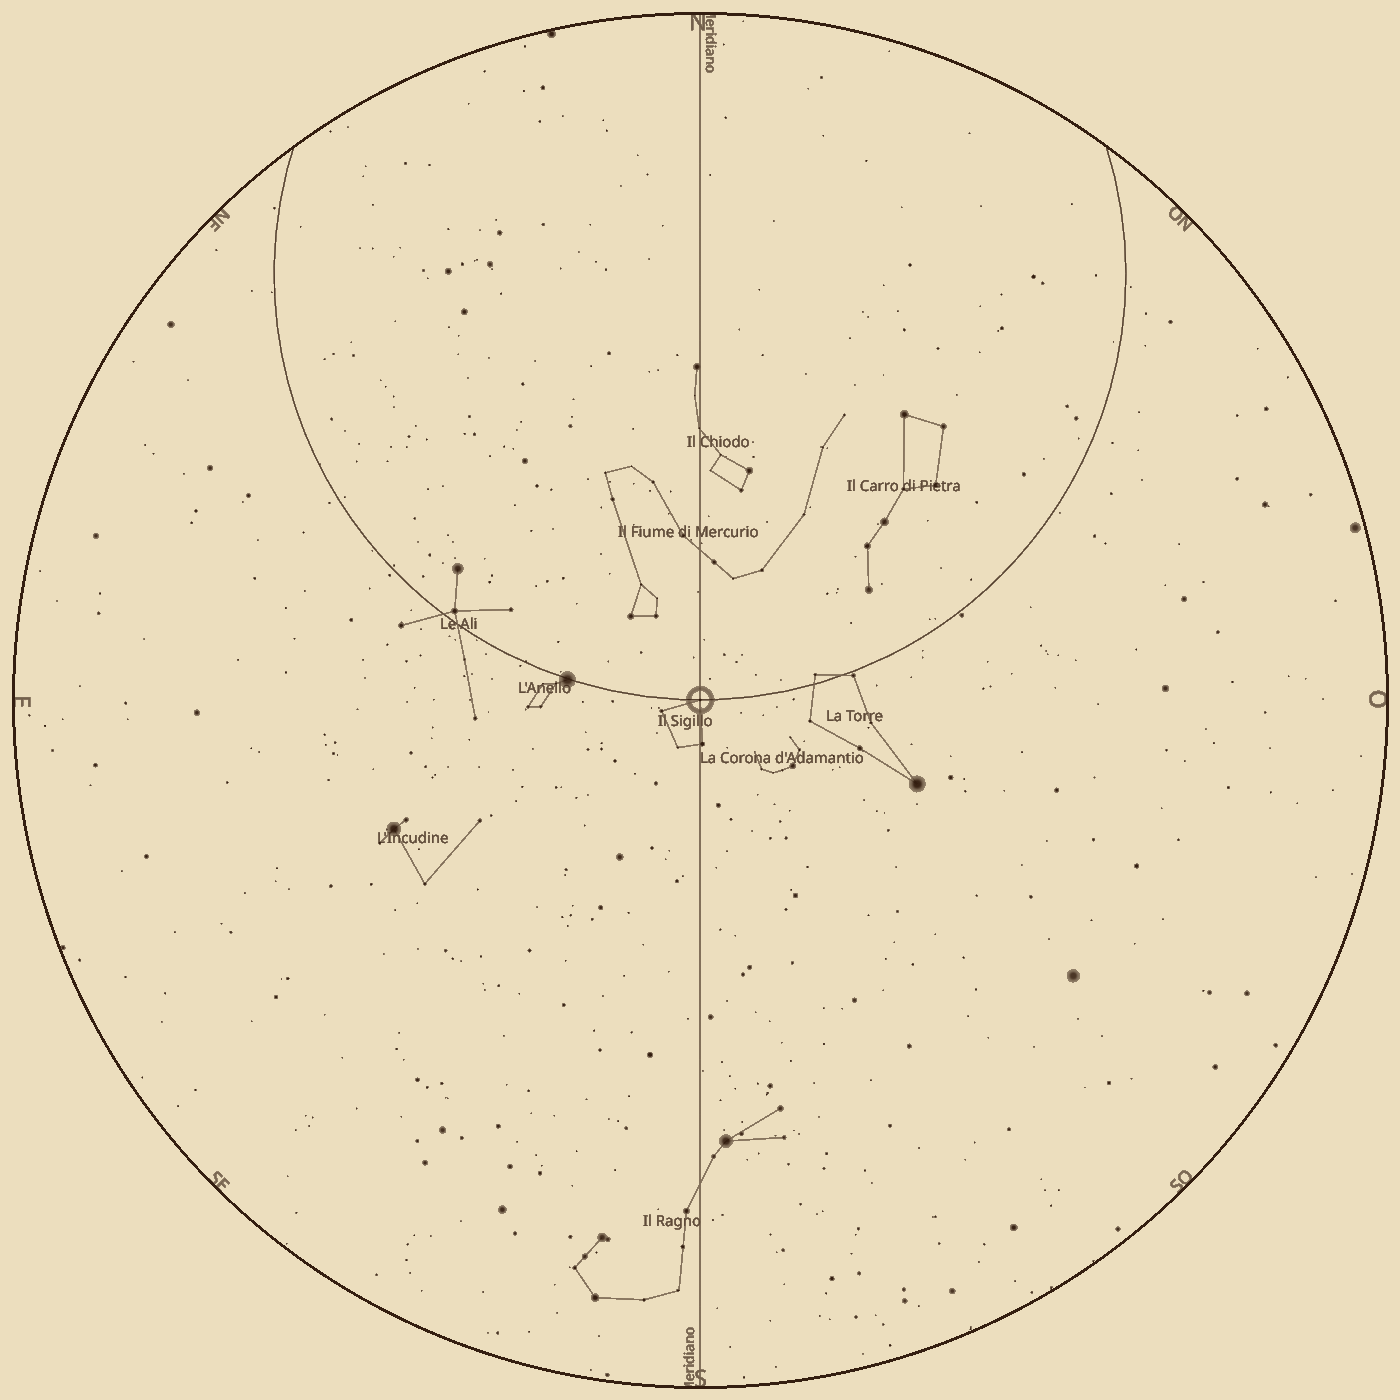
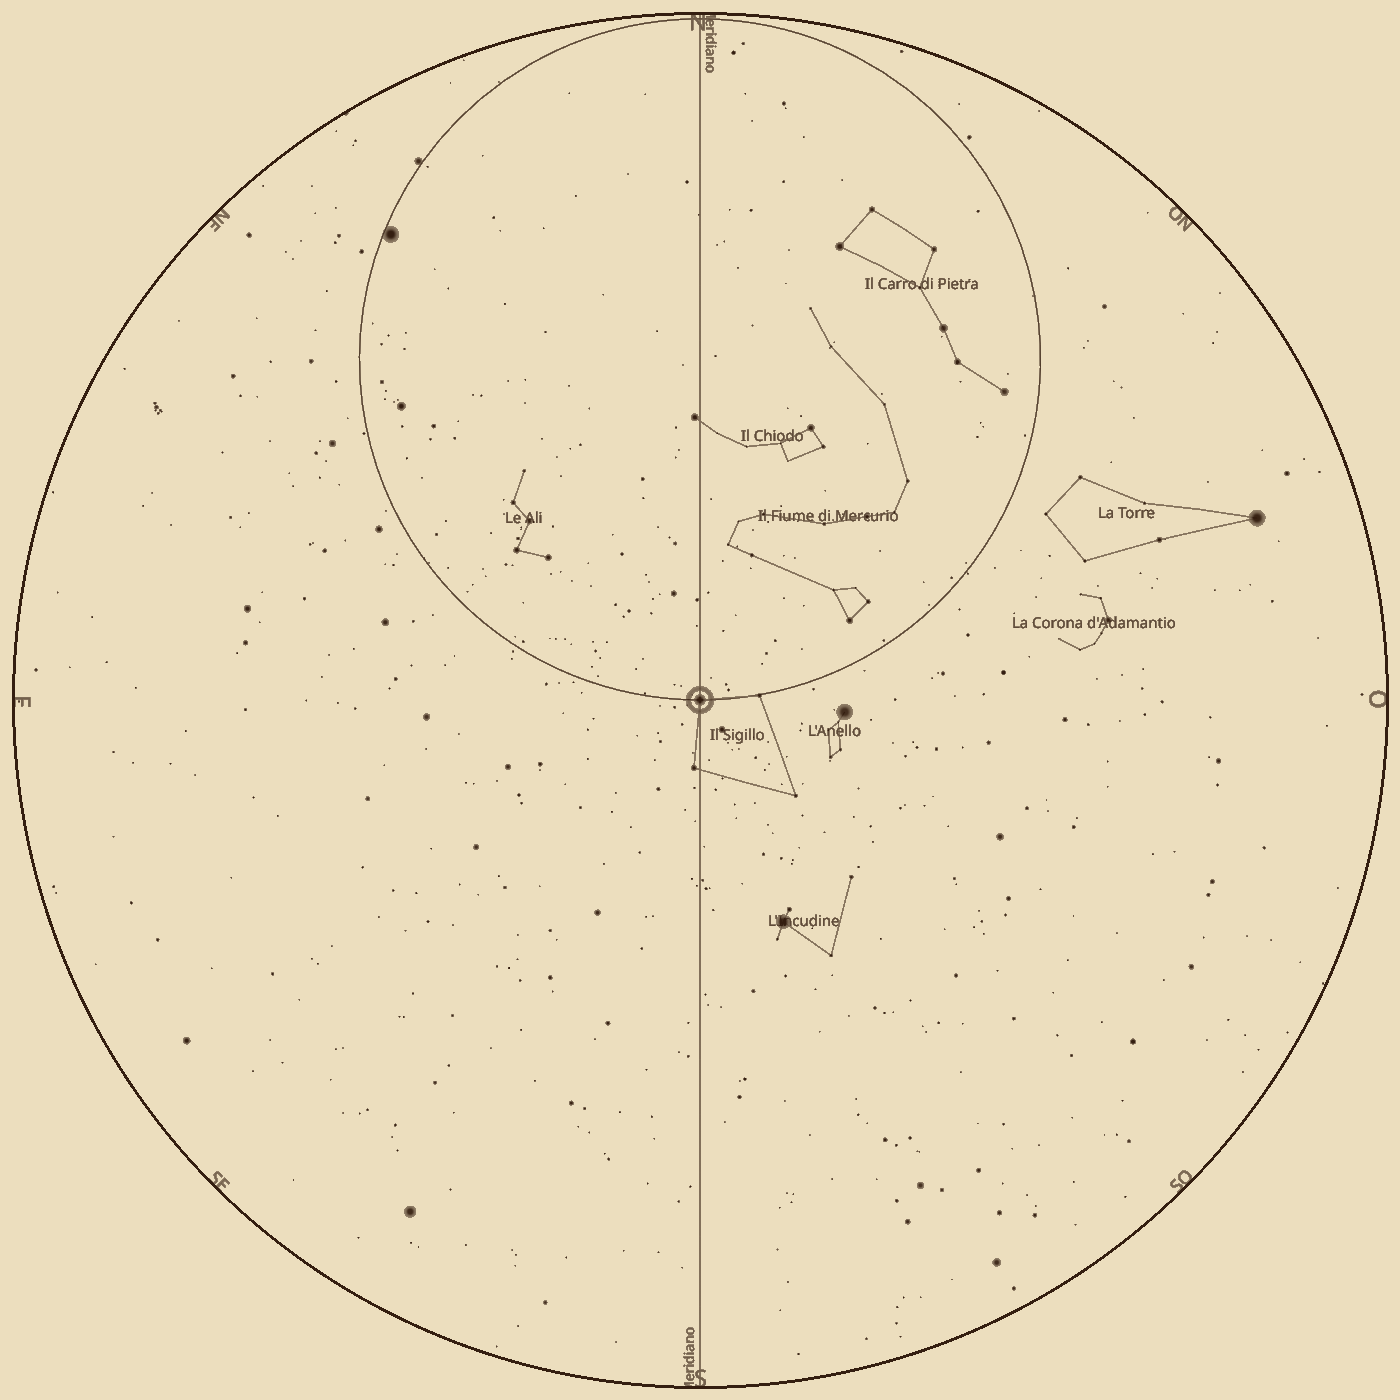
Carta del cielo di Zalkatar: dal 30 Mirtul al 30 Flamerule
Il DM ha scelto sulla card del 2026-11-18 che la Torre cammina il 30
Flamerule, come vuole l'ancora del calendario del 2026-07-12. Carta rifatta
(2000-07-31 00:05:45 UT, stella-chiave HIP 102098, latitudine 45,281),
Sigillo ridisegnato, handout 7 e righe A4 del dossier a Flamerule,
PROVENIENZA, RICERCA §3.1, CHANGELOG e MS-0166.

Claude-Session: https://claude.ai/code/session_01KdRg4GgYVS5JNtwe8bvZrw

diff --git a/plans/CHANGELOG.md b/plans/CHANGELOG.md
@@ -962,3 +962,4 @@
 | 2026-11-17 | SISTEMI-DI-GIOCO-PLUGIN | ADR-0126, il generatore: Incantesimi focalizzati con la scuola. Il nome italiano di Spell Focus era «Incantesimi focalizzati (bene, caos, legge o male)», preso dal talento degli allineamenti: ora è «Incantesimi focalizzati», e il generatore scrive la scuola con più incantesimi sul blocco (dall'SRD 3.5; per l'APG dal PRD). Un blocco senza incantesimi prende il talento seguente del ruolo, scelta del DM sulla card del 17/11 | `scripts/genera_creatura.py` · `scripts/dmcore/talenti.py` · `scripts/lessico_it_35.tsv` · `sistemi/dnd35/dati/liste_incantesimi.toml` `[scuole]` · `sistemi/pf1e/dati/incantesimi.toml` `[scuole]` · `plans/esperimenti/incantesimi-35-2026-11-12/estrai_liste.py` · `scripts/tests/test_talenti.py` | In PR: sull'impronta (720 blocchi) nome sbagliato 234 → 0, senza scuola 312 → 0, su blocchi senza incantesimi 210 → 0 |
 | 2026-11-17 | RECUPERO-DECISIONI-E-REVISIONI-INCOMPIUTE | Kit unico delle prove sulla RTX 4050, richiesta del DM del 17/11 (ADR-0136): `kit.sh` installa, lancia in fila, verifica e impacchetta le prove di `prove.json` su Bazzite, Debian 13, CachyOS («chaucy os» letto come CachyOS) e Windows via WSL2 con Ubuntu 24.04 (scelta del DM sulla card del 17/11). Server Ollama acceso e spento dal kit col contesto di ogni prova; `verifica.py` scrive `verifica.md` (ok, ko, da completare, non fatta); `trascrizione-gpu.sh` prova whisper.cpp sulla GPU con FLEURS, senza registrare nessuno, coi parametri del thread della trascrizione. `scripts/llm-locale/` e `scripts/comfyui-local/` entrano nel box con `nel_box`; prenotato ADR-0135 per la #424 | `scripts/prove-4050/` (kit.sh, installa.sh, installa-windows.ps1, ospite.sh, prove.json, verifica.py, trascrizione-gpu.sh) · `docs/how-to/GUIDA-PROVE-PORTATILE-4050.md` · `plans/adr/ADR-0136-…` · `plans/adr-prenotati.json` | 🟡 prove lanciabili con un comando: da 0 a 7 su 7; sistemi con un percorso di installazione: da 1 (Bazzite) a 4. Mai girato su una GPU né su Debian, CachyOS o Windows veri: provati nel container il riconoscimento dei sistemi, i comandi di `installa.sh --mostra` per ognuno, `kit.sh piano` ed `esegui controlla`, `verifica.py` su risultati finti, e `trascrizione-gpu.sh` intero sulla CPU (FLEURS 40 righe, 646 s di audio, q8_0 con `-mc 0` senza VAD: 2,3% di parole sbagliate in 249 s, 2,6 volte il tempo reale; col VAD era 8,6%, per questo è tolto, come chiesto dal thread della trascrizione). `installa-windows.ps1` non controllato: nessun PowerShell nel container. Test `test_prove_4050` 13 → 23; suite 3.231 verdi |
 | 2026-11-18 | SISTEMI-DI-GIOCO-PLUGIN | ADR-0126, il generatore: la nota «niente Incantesimi focalizzati» nel conto esce solo se l'esclusione ha cambiato la scelta dei talenti. Dopo la #468 usciva su ogni blocco senza incantesimi, e `impronte.py --confronta` dava due rossi nuovi (genera_creatura_gs7 e gs14) per quella sola riga; il blocco era uguale. Sull'impronta delle creature: 484 note tolte, 156 restano, nessun'altra differenza | `scripts/genera_creatura.py` (`applica_talenti`, controprova senza esclusi) · `scripts/tests/fixtures/impronta-creature.json` · `scripts/tests/test_talenti.py` | ✅ |
+| 2026-11-18 | RICERCA-TOOL-LGM-2026 | §3.1, ricontrollo della carta del cielo chiesto dal DM. La carta mostrava la mezzanotte del 30 Mirtul, ma l'ancora del calendario del 2026-07-12 dice Giorno di Marcia 1 = 1 Flamerule: il DM ha scelto sulla card del 2026-11-18 «30 Flamerule: rifaccio la carta». Carta rifatta per la mezzanotte del 30 Flamerule (2000-07-31 00:05:45 UT, stella-chiave HIP 102098, latitudine 45,281): Sigillo ridisegnato intorno alla nuova stella, Ali spostate a nord-est, il Ragno a quell'ora è tramontato (nove figure sulla carta). Handout 7 e le tre righe del dossier delle piste che parlano della carta passano a Flamerule; nell'handout 7 la voce «Il cerchio grande» torna dentro la nota DM e i giorni di marcia a 6 m diventano «fra quattro e cinque». Gli altri «Mirtul» di ARC-09 li prende il thread della coerenza della storia. | `09_…/Immagini-Handout/carta-del-cielo/` · `09_Continuazione Arco Narrativo dopo Battaglia di Hammerfist/Arco-Post-Hammerfist-HANDOUTS.md` · `09_…/Arco-Post-Hammerfist-DOSSIER-DELLE-PISTE.md` (A4) · `plans/RICERCA-TOOL-LGM-2026.md` | Stella-chiave a 0,3 pixel dal centro del segno; quattro lanci di fila identici pixel per pixel, variante da stampa identica byte per byte. A mezzanotte del 30 Flamerule la stella della carta di prima era a 58° oltre il meridiano. |

diff --git a/09_Continuazione Arco Narrativo dopo Battaglia di Hammerfist/Arco-Post-Hammerfist-HANDOUTS.md b/09_Continuazione Arco Narrativo dopo Battaglia di Hammerfist/Arco-Post-Hammerfist-HANDOUTS.md
@@ -202,17 +202,17 @@
 
 > **Quando darlo** (deciso dal DM il 2026-11-14, sulla card: «tutte e due»). La
 > carta sta addosso al mago della **squadra di piromanti drow** (tabella del
-> Cannath Vale, 56-70, `INCONTRI-VIAGGIO-CANNATH-VALE`), prima di fine Mirtul.
+> Cannath Vale, 56-70, `INCONTRI-VIAGGIO-CANNATH-VALE`), prima di fine Flamerule.
 > La squadra è una scena fissa fra il Day 22 e il 26 sulla strada che il gruppo
 > fa davvero: Witchwood se va alla Foresta Sacra, Vale centrale se Artemis va
 > solo verso nord [DM 2026-11-14, dossier delle piste §13 S1].
 > Se i PG non lo incontrano o non lo perquisiscono, **Sethrax** ne dà una copia
 > quando si smaschera al Torneo, come indizio gratuito sull'arco della Torre
-> (`P2B-Torneo-DAUTH-SUBQUEST-Artemis` §4.1): arriva dopo il 30 Mirtul, quindi
+> (`P2B-Torneo-DAUTH-SUBQUEST-Artemis` §4.1): arriva dopo il 30 Flamerule, quindi
 > la carta dice dove la Torre **è già andata**.
 > Un foglio rotondo di pelle sottile, inchiostro bruno, nessuna firma.
 
-![Carta del cielo di Zalkatar: cielo di mezzanotte visto dall'alto, con il meridiano nord-sud, dieci costellazioni con i loro nomi, una stella cerchiata al centro esatto, nel Sigillo, e un cerchio più grande che passa per quella stella e per la stella più luminosa dell'Anello](Immagini-Handout/carta-del-cielo/carta-del-cielo-zalkatar-stampa.png)
+![Carta del cielo di Zalkatar: cielo di mezzanotte visto dall'alto, con il meridiano nord-sud, nove costellazioni con i loro nomi, una stella cerchiata al centro esatto, in cima al Sigillo, e un cerchio più grande che passa per quella stella e per l'angolo ovest del Sigillo](Immagini-Handout/carta-del-cielo/carta-del-cielo-zalkatar-stampa.png)
 
 > *Le stelle sono puntini d'inchiostro, i nomi in Comune in una grafia piccola e
 > diritta. Una riga taglia il cerchio da nord a sud. Al centro, dove la riga
@@ -226,9 +226,11 @@
 >   cerchiata è la più alta del **Sigillo** ed è esattamente lì.
 > - **Lettura 1, la notte** (nessun tiro: basta guardare il cielo vero a
 >   mezzanotte). Il cielo gira di un grado per notte: ogni notte il Sigillo
->   arriva al meridiano quattro minuti prima. Il 22 Mirtul a mezzanotte è ancora
+>   arriva al meridiano quattro minuti prima. Il 22 Flamerule a mezzanotte è ancora
 >   a est della riga, di circa nove gradi; sulla riga ci arriva a mezzanotte il
->   **30 Mirtul**. È la notte in cui «la torre cammina». Una prova di
+>   **30 Flamerule**, il Giorno di Marcia 30 (mese deciso dal DM il 2026-11-18,
+>   sull'ancora del calendario del 2026-07-12). È la notte in cui «la torre
+>   cammina». Una prova di
 >   Conoscenze (geografia) o Sopravvivenza CD 15 conta le notti a colpo d'occhio.
 > - **Lettura 2, il luogo**. Una stella passa esattamente sopra la testa solo
 >   alla latitudine uguale alla sua altezza in cielo: la carta è disegnata **dal
@@ -241,9 +243,9 @@
 >   La carta non dipende da questa scelta: se cambia, cambia solo questa riga.
 > - **Il cerchio grande** è il parallelo del Sigillo: le stelle che ci stanno sopra
 >   passano tutte sopra la testa di chi è nel luogo del passo, una dopo l'altra.
->   Ci sta sopra anche la stella più luminosa dell'**Anello**, che si vede bene
->   anche in una notte velata: per un PG che misura, è la conferma che il cerchio
->   non è un ornamento (Conoscenze (geografia) CD 15 lo capisce a colpo d'occhio).
+>   Ci sta sopra anche la stella all'angolo ovest del **Sigillo**, la seconda che
+>   passa allo zenit quella notte: per un PG che misura, è la conferma che il
+>   cerchio non è un ornamento (Conoscenze (geografia) CD 15 lo capisce a colpo d'occhio).
 > - **Nome**: «il Sigillo si chiude sulla Torre». È il calcolo del rito di
 >   spostamento di Zalkatar, la stessa vibrazione che sente l'Anello di Artemis.
 > - **Perché non si falsifica**: il cielo è lo stesso per tutti. Una copia con
@@ -253,7 +255,8 @@
 > **Nota DM: stampa e provenienza**. Due versioni: inchiostro su carta
 > (`carta-del-cielo-zalkatar-stampa.png`, da stampare) e cielo notturno
 > (`carta-del-cielo-zalkatar.png`, da mostrare a schermo). Le costellazioni hanno
-> nomi del repo, non di Faerûn (ADR-0005); come si rifà l'immagine sta in
+> nomi del repo, non di Faerûn (ADR-0005). Sulla carta le figure sono nove: a
+> quell'ora il Ragno è già tramontato. Come si rifà l'immagine sta in
 > `Immagini-Handout/carta-del-cielo/PROVENIENZA.txt`.
 
 ---

diff --git a/MEMORIA.md b/MEMORIA.md
@@ -84,6 +84,7 @@ Fonte: [`plans/CHANGELOG.md`](plans/CHANGELOG.md), una riga per lotto chiuso.
 
 | Data | Piano | Lotto | Esito |
 |---|---|---|---|
+| 2026-11-18 | RICERCA-TOOL-LGM-2026 | §3.1, ricontrollo della carta del cielo chiesto dal DM. La carta mostrava la me… | Stella-chiave a 0,3 pixel dal centro del segno; quattro lanci di fila identici pixel per pixel, variante da stampa identica byte per byte. A mezzanotte del 30… |
 | 2026-11-18 | SISTEMI-DI-GIOCO-PLUGIN | ADR-0126, il generatore: la nota «niente Incantesimi focalizzati» nel conto esc… | ✅ |
 | 2026-11-17 | RECUPERO-DECISIONI-E-REVISIONI-INCOMPIU… | Kit unico delle prove sulla RTX 4050, richiesta del DM del 17/11 (ADR-0136):… | 🟡 prove lanciabili con un comando: da 0 a 7 su 7; sistemi con un percorso di installazione: da 1 (Bazzite) a 4. Mai girato su una GPU né su Debian, CachyOS o W… |
 | 2026-11-17 | SISTEMI-DI-GIOCO-PLUGIN | ADR-0126, il generatore: Incantesimi focalizzati con la scuola. Il nome italian… | In PR: sull'impronta (720 blocchi) nome sbagliato 234 → 0, senza scuola 312 → 0, su blocchi senza incantesimi 210 → 0 |
@@ -95,12 +96,11 @@ Fonte: [`plans/CHANGELOG.md`](plans/CHANGELOG.md), una riga per lotto chiuso.
 | 2026-11-17 | PIANO-REVISIONE-ARC08-COERENZA-E-QUALITA | Ozyrrandion parte informato sui PG solo se Sethrax è fuggito dal Torneo col sem… | ✅ una riga di tattica, nessun numero cambiato |
 | 2026-11-16 | RIPRESA-PR-ABBANDONATE | D2, collaudo dell'arte del Drappo: lo script per il portatile 4050 | 🟡 script pronto, mai girato sulla 4050: tre tavole (ritratto-vanna, tavola-la-ruota, il-drappo) × due semi con FLUX.2… |
 | 2026-11-16 | RECUPERO-DECISIONI-E-REVISIONI-INCOMPIU… | L2, L5 e L6: il piano si chiude | ✅ Piano completo. L5 chiuso con la prova, non per tempo: RIPRESA-PR D11 decisa l'8/11 e la #106 chiusa il 24/10. L2: R-3 misurato (quattro rami di PR fuse con… |
-| 2026-11-15 | SISTEMI-DI-GIOCO-PLUGIN | ADR-0134, regola RC-001: il corredo di sette schede, scelto dal DM sulle card d… | sette schede da nessuna riga di corredo a una riga di corredo con valore e fonte (Dovil 5.865/7.200, Drow 10.510/12.000, Duergar ≤6.410/9.400, Tempestas 8.560/… |
 
 ## Le misure che si portano dietro
 
 - **Decisioni**: 1 aperte, 323 chiuse (`decisioni_dm.py`).
-- **Memoria storica**: 165 voci, l'ultima MS-0165 del 2026-11-18 (`memoria_storica.py`, ADR-0127).
+- **Memoria storica**: 166 voci, l'ultima MS-0166 del 2026-11-18 (`memoria_storica.py`, ADR-0127).
 - **Prosa**: 11 revisioni applicate, segnalazioni -28, MQM +2.52 punti (`ciclo_prosa.py registro`).
 
 ## Dove vive ogni cosa

diff --git a/plans/MEMORIA-STORICA.md b/plans/MEMORIA-STORICA.md
@@ -1876,3 +1876,15 @@ repo scritto con altre parole.
 - **Testo:** dopo la #468 (MS-0163) il conto di ogni blocco senza incantesimi diceva «niente Incantesimi focalizzati», anche quando il ruolo non l'avrebbe mai preso. Il coordinatore ha visto due rossi nuovi in `impronte.py --confronta` (genera_creatura_gs7 e gs14): la sola differenza con ea63a192 era quella riga. Ora `applica_talenti` rifà la scelta senza esclusioni, su copie dello stato e del generatore casuale, e scrive la nota solo se la scelta senza esclusioni avrebbe preso il talento.
 - **Trovato nel repo:** `scripts/genera_creatura.py` (`applica_talenti`) · `scripts/tests/test_talenti.py` (`Focalizzati`)
 - **Solo qui:** sull'impronta delle 720 creature 484 note tolte e 156 restano, e null'altro cambia; `impronte.py --confronta` torna ai 3 rossi di prima (suggest_encounter, conformita_statblocchi, derive_statblocks).
+
+### MS-0166 · 2026-11-18 · RICERCA-TOOL-LGM-2026 §3.1: la carta del cielo passa dal 30 Mirtul al 30 Flamerule
+
+- **Data:** 2026-11-18
+- **PR:** —
+- **ADR:** ADR-0005 ADR-0019
+- **Temi:** arc09 handout immagini calendario canone
+- **Origine:** riga del 2026-11-18 «§3.1, ricontrollo della carta del cielo chiesto dal DM» in `plans/CHANGELOG.md`
+- **Testo:** Jfs, 2026-11-18: «ricontrolla se ci sono errori e fixali». Il ricontrollo ha trovato che i file di ARC-09 dicono «fine Mirtul» per il Giorno 30, mentre la decisione del DM del 2026-07-12 fissa Giorno di Marcia 1 = 1 Flamerule. Sulla card Jfs ha scelto «30 Flamerule: rifaccio la carta». Carta rifatta: 2000-07-31 00:05:45 UT a longitudine 0, stella-chiave HIP 102098 allo zenit a latitudine 45,281.
+- **Trovato nel repo:** `09_…/Immagini-Handout/carta-del-cielo/PROVENIENZA.txt` · handout 7 in `Arco-Post-Hammerfist-HANDOUTS.md` · A4 in `Arco-Post-Hammerfist-DOSSIER-DELLE-PISTE.md`
+- **Solo qui:** vicino all'ascensione retta giusta non c'è una stella alla declinazione di prima (38,9°): per questo cambiano anche la latitudine e il parallelo, che ora passa per l'angolo ovest del Sigillo e non più per l'Anello. I «circa nove gradi» del 22 del mese restano giusti: otto notti più il grado e mezzo che manca a mezzanotte esatta. Il primo lancio di Stellarium dopo aver copiato una cultura del cielo nuova differisce dai successivi di un livello di grigio in circa 1800 pixel, quasi tutti fuori dall'orizzonte; i quattro lanci dopo sono identici. Gli altri «Mirtul» di ARC-09 (HOOKS, INTEGRATION-MASTER, Cerimonia, Tempestas) non sono toccati qui: li prende il thread della coerenza della storia.
+

diff --git a/09_Continuazione Arco Narrativo dopo Battaglia di Hammerfist/Arco-Post-Hammerfist-DOSSIER-DELLE-PISTE.md b/09_Continuazione Arco Narrativo dopo Battaglia di Hammerfist/Arco-Post-Hammerfist-DOSSIER-DELLE-PISTE.md
@@ -220,7 +220,7 @@ FATTO      Un foglio rotondo di pelle sottile, inchiostro bruno, nessuna firma:
            il cielo di mezzanotte visto dall'alto, il meridiano, una stella del
            Sigillo cerchiata tre volte al centro, un secondo cerchio tirato col
            compasso. (HANDOUTS, handout 7)
-LETTURA    La notte: il Sigillo arriva sul meridiano a mezzanotte il 30 Mirtul
+LETTURA    La notte: il Sigillo arriva sul meridiano a mezzanotte il 30 Flamerule
            (Conoscenze geografia o Sopravvivenza CD 15). Il luogo: la carta è
            disegnata dal luogo del passo, un grado a sud del pianoro, circa
            110 km (astrolabio, quadrante o Conoscenze geografia CD 20).
@@ -238,9 +238,9 @@ INNOCENZA  «Un mago drow con una carta delle stelle: sarà per orientarsi in
 
 **Chi la porta** (deciso dal DM il 2026-11-14, handout 7): il mago della
 **squadra di piromanti drow** (`INCONTRI-VIAGGIO-CANNATH-VALE` §1.1, voce 56-70;
-statblocco `Bestiario/mostri/drow-wizard7-cr8.md`), prima di fine Mirtul. Se i PG
+statblocco `Bestiario/mostri/drow-wizard7-cr8.md`), prima di fine Flamerule. Se i PG
 non lo incontrano o non lo perquisiscono, **Sethrax** ne dà una copia quando si
-smaschera al Torneo (A6): arriva dopo il 30 Mirtul e dice dove la Torre **è già
+smaschera al Torneo (A6): arriva dopo il 30 Flamerule e dice dove la Torre **è già
 andata**.
 
 > **Scena fissa [DM 2026-11-14]**: la squadra di piromanti era una voce di

diff --git a/plans/RICERCA-TOOL-LGM-2026.md b/plans/RICERCA-TOOL-LGM-2026.md
@@ -198,6 +198,10 @@ Lo stesso giorno la carta passa a Stellarium 26.2 (AppImage ufficiale): cultura 
 `index.json`, segno fisso sulla stella-chiave (due lanci identici, prima 619 pixel
 diversi) e parallelo del Sigillo col plugin ArchaeoLines, scelto da Jfs sulla card.
 SkyCultureMaker c'è ma è solo a finestre: non migliora nulla che si misuri.
+Il 2026-11-18, al ricontrollo chiesto da Jfs, la carta è rifatta per la mezzanotte del
+30 Flamerule (prima 30 Mirtul): il Giorno di Marcia 30 cade in Flamerule per l'ancora
+del calendario del 2026-07-12, e Jfs l'ha confermato sulla card. Nuova stella-chiave,
+Sigillo ridisegnato; i passi sono in PROVENIENZA.
 
 ### §3.2 · Krita e GIMP: banco del DM, mai passo di catena
 
